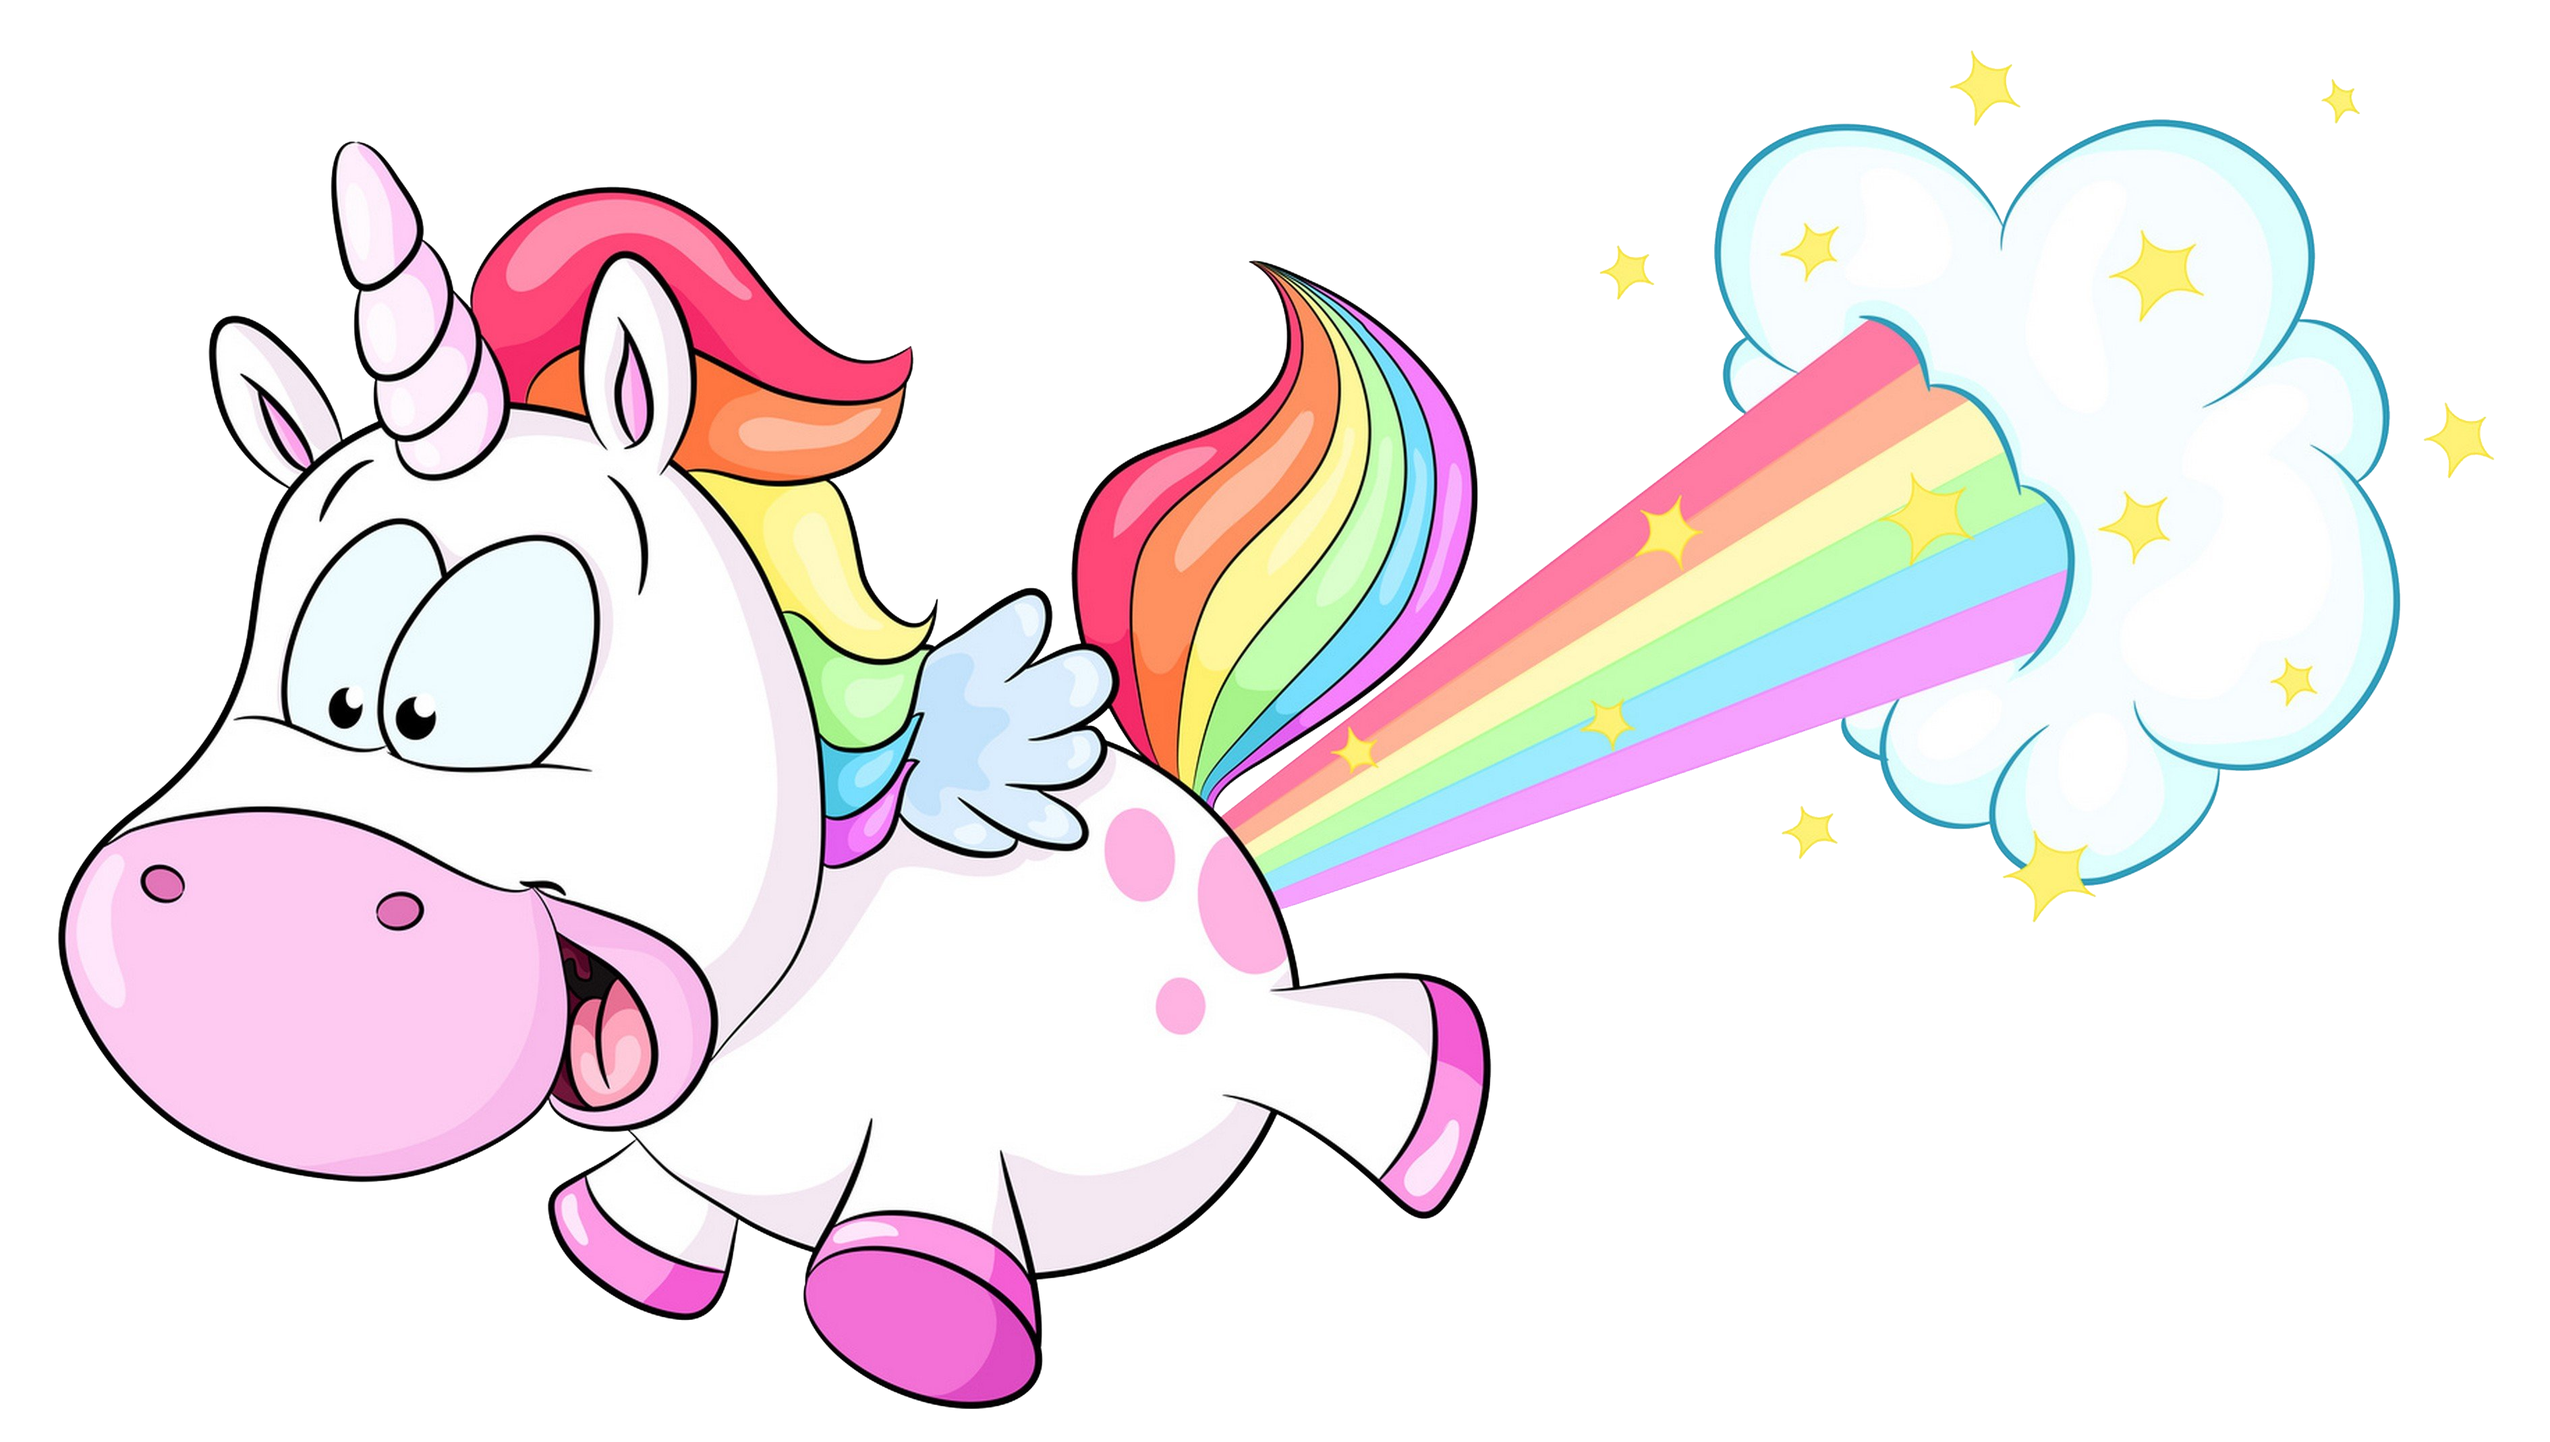
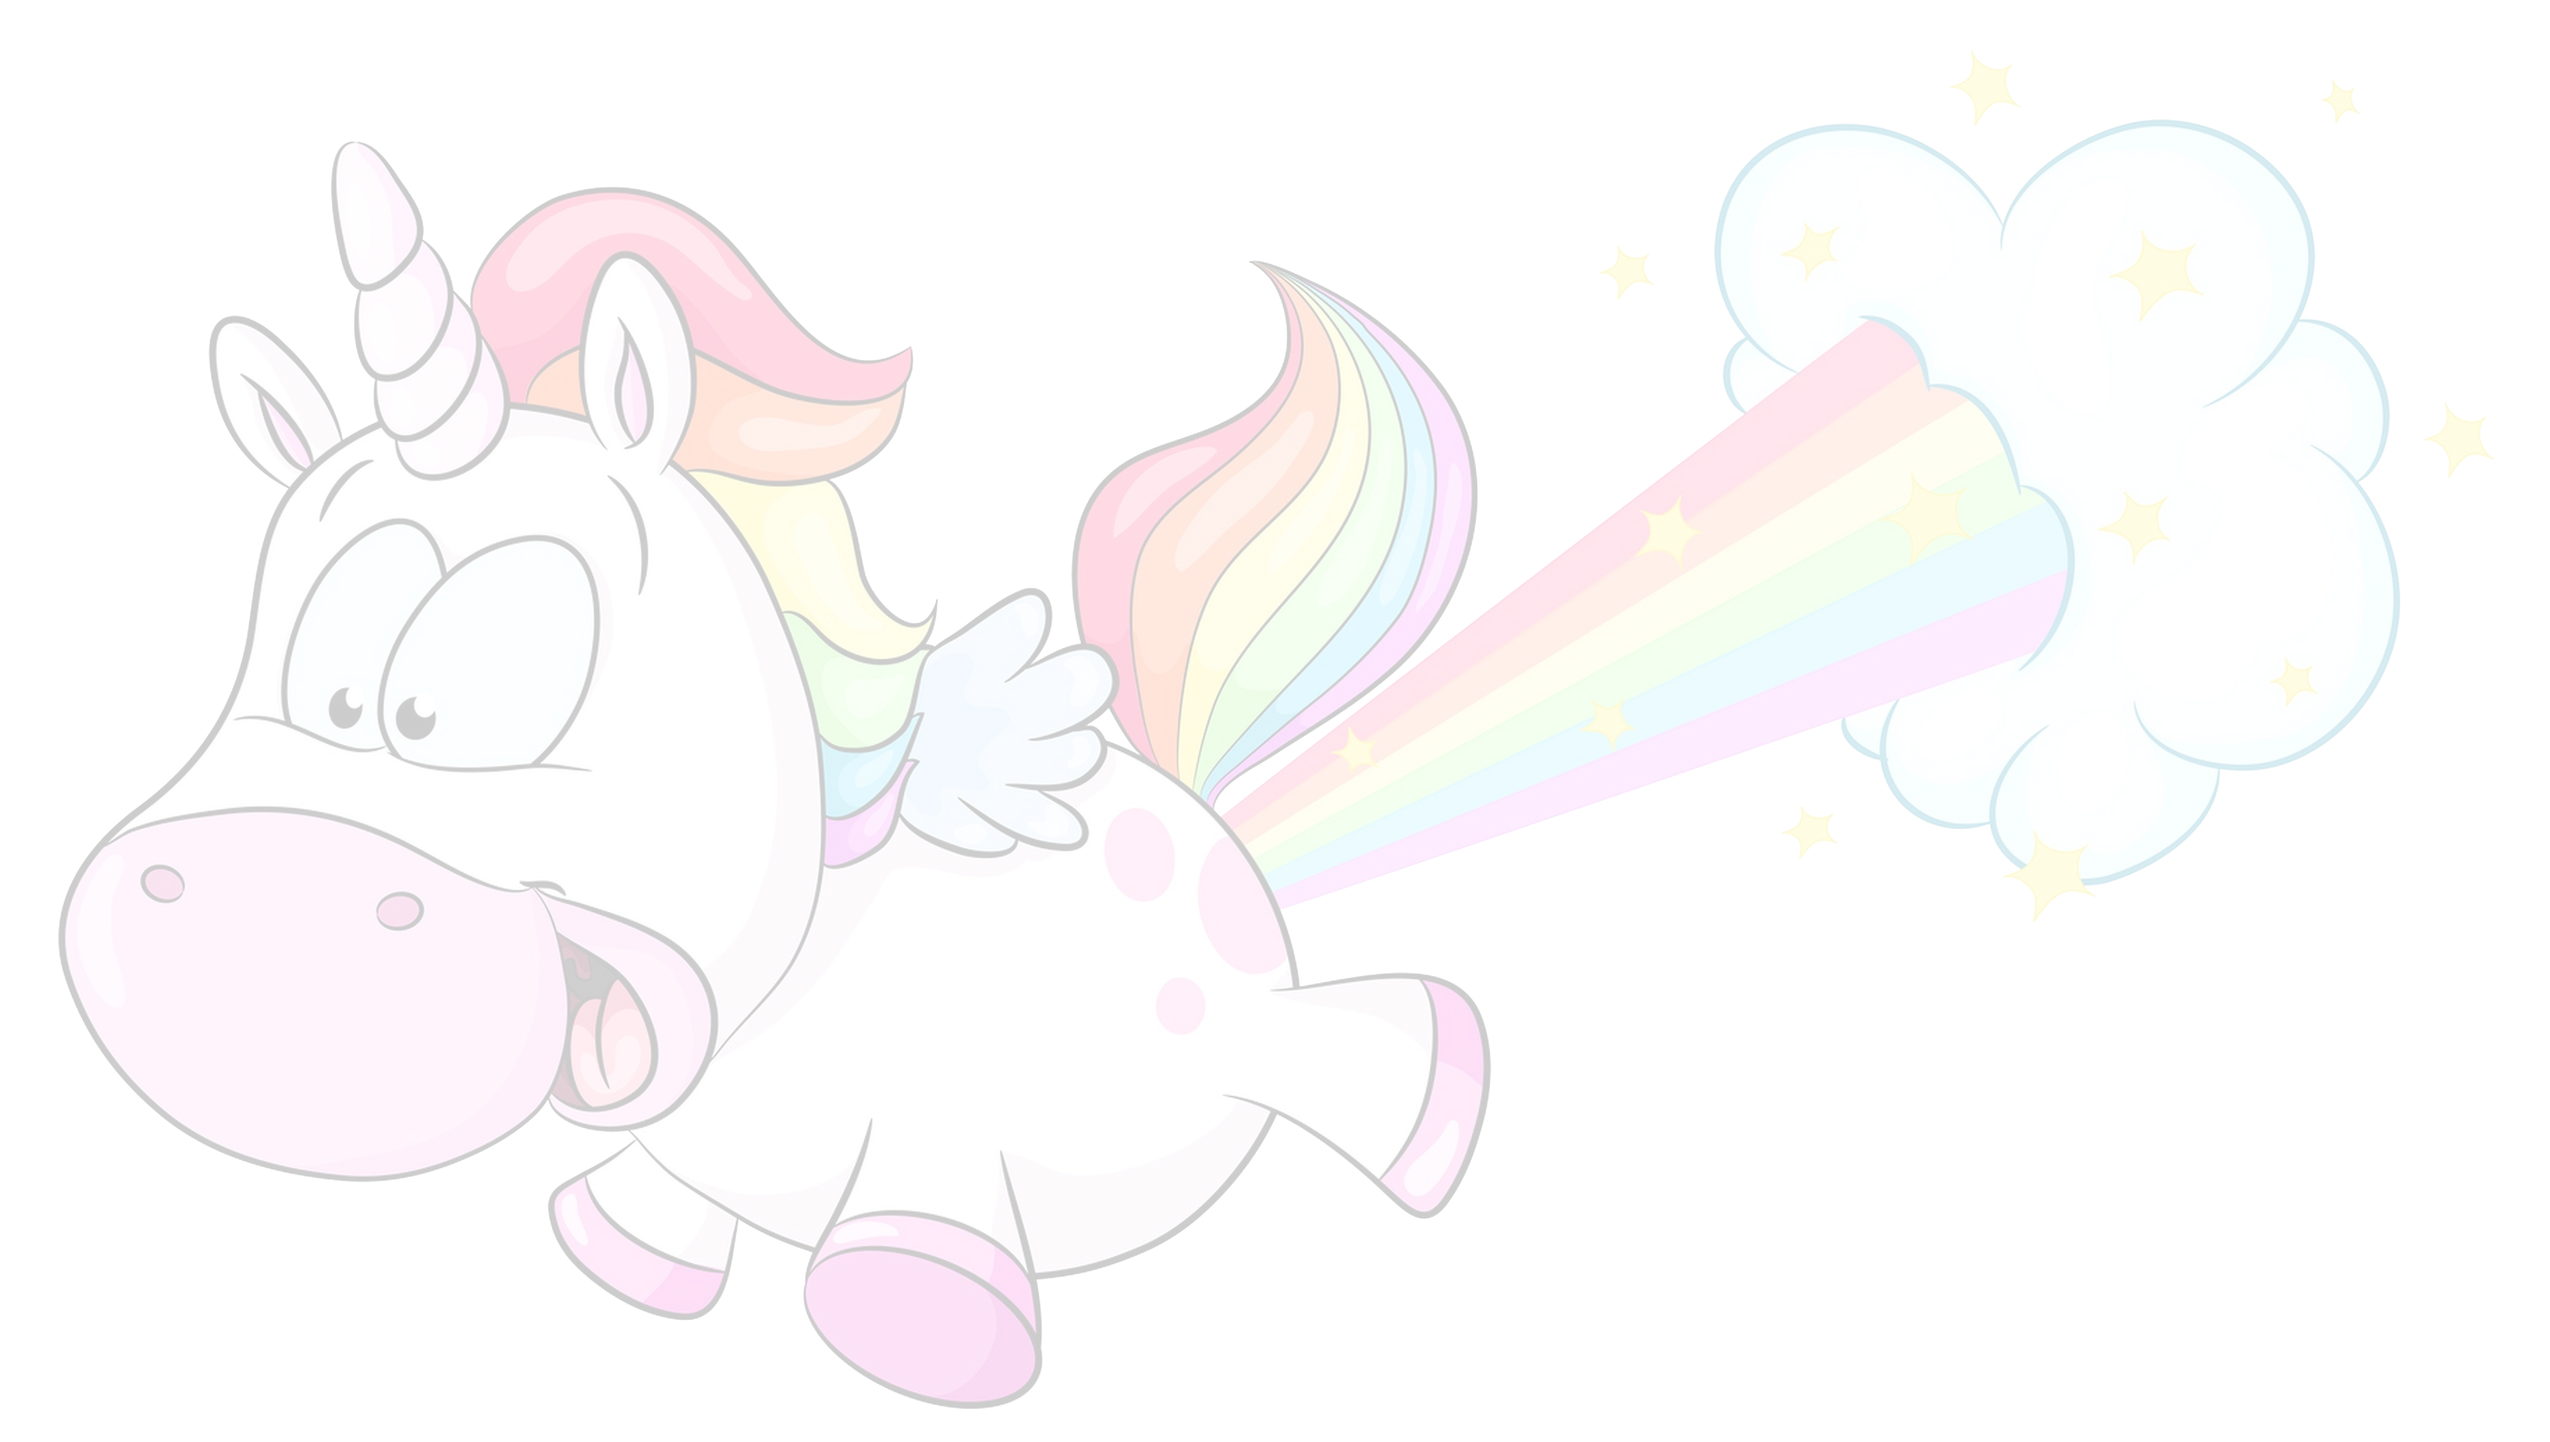
Front end

diff --git a/components/FormArticle.vue b/components/FormArticle.vue
@@ -1,18 +1,21 @@
 <template>
   <div>
+    <nuxt-link :to="{name: 'admin'}">
+      <button class="btn -theme-default"><Icon name="chevron-left" strokeWidth="2" size="medium" ></Icon></button>
+      <br> <br>
+    </nuxt-link>
     <h2>{{currentArticle ? `Modier l'article ${currentArticle.title}` : 'Nouvel article'}}</h2>
     <RbUForm @submit="addArticle">
       <RbUField label="Titre">
         <RbUInputText v-model="article.title" required />
       </RbUField>
       <RbUField label="Description">
-        <RbUInputTextArea v-model="article.text" required />
+        <RbUInputTextArea v-model="article.text" required rows="10" />
       </RbUField>
       <div slot="actions" class="u-display-flex u-jc-flex-end u-padding-top-medium">
         <RbUButtonTextIcon modifiers="-theme-secondary" utils="u-color-default u-font-weight-bold" :text="article.id ? 'Sauvegarder' : 'Créer'" iconBefore="save" />
       </div>
     </RbUForm>
-    <nuxt-link :to="{name: 'admin'}"><button>Retour</button></nuxt-link>
   </div>
 </template>
 
@@ -24,6 +27,7 @@
   import RbUForm from "~/components/Form.vue";
   import RbUInputText from "~/components/InputText.vue";
   import RbUInputTextArea from "~/components/InputTextArea.vue";
+  import Icon from "~/components/Icon";
 
   export default {
     components: {
@@ -31,7 +35,8 @@
       RbUField,
       RbUForm,
       RbUInputText,
-      RbUInputTextArea
+      RbUInputTextArea,
+      Icon
     },
     props: {
       currentArticle: Object
@@ -63,7 +68,6 @@
 
         axios[method](action, this.article)
           .then((Response) => {
-            console.log(Response);
             this.$router.back();
           })
           .catch((err) => {

diff --git a/pages/admin/index.vue b/pages/admin/index.vue
@@ -1,14 +1,21 @@
 <template>
-  <div class="container">
-    <h2>{{title}}</h2>
-    <p><nuxt-link :to="{name: 'admin-edit'}">Créer un article</nuxt-link></p>
-    <p></p>
-    <ul v-if="!loading">
-      <li v-for="article in articles" :key="article.id">
-        <span>{{article.title}}</span> <nuxt-link :to="{name: 'admin-edit-id', params: {id: article.id}}" class="btn -theme-3 -format-small"><Icon name="edit" strokeWidth="2" size="small" ></Icon></nuxt-link>
+  <div>
+    <div class="d-flex justify-content-between u-content-width-xsmall">
+      <h2>{{title}}</h2>
+      <p><nuxt-link :to="{name: 'admin-edit'}" class="btn -theme-primary">Créer un article</nuxt-link></p>
+    </div>
+
+    <div v-if="!loading">
+      <div class="d-flex justify-content-between u-margin-vt-small u-content-width-xsmall" v-for="article in articles" :key="article.id">
+        <span>{{article.title}}</span>
+        <div>
+          <nuxt-link :to="{name: 'admin-edit-id', params: {id: article.id}}" class="btn -theme-3 -format-small u-margin-hz-small">
+            <Icon name="edit" strokeWidth="2" size="small" ></Icon>
+          </nuxt-link>
         <RbUButtonIcon class="btn--ghost -theme-1 -format-small" @click="remove(article)" iconSize="small" iconName="trash-2" iconStrokeWidth="2" />
-      </li>
-    </ul>
+        </div>
+      </div>
+    </div>
     <RbUSpinner v-else utils="u-margin-bottom-medium"></RbUSpinner>
   </div>
 </template>

diff --git a/pages/blog/_id.vue b/pages/blog/_id.vue
@@ -1,18 +1,25 @@
 <template>
-  <div class="container">
+  <div>
+    <nuxt-link :to="{name: 'blog'}">
+      <button class="btn -theme-default"><Icon name="chevron-left" strokeWidth="2" size="medium" ></Icon></button>
+    </nuxt-link>
+    <br><br>
+
     <h2>Article n° {{currentArticle.id}} - {{currentArticle.title}}</h2>
-    <p>{{currentArticle.text}}</p>
-    <nuxt-link :to="{name: 'blog'}"><button>Retour</button></nuxt-link>
+    <p class="pre-formatted">{{currentArticle.text}}</p>
   </div>
 </template>
 
 <script>
   import axios from "~/plugins/axios";
+  import Icon from "~/components/Icon";
 
   export default {
+    components: {
+      Icon
+    },
     async asyncData({params}) {
       const { data } = await axios.get(`/article/${params.id}`);
-      console.log(data);
       return {
         currentArticle: data
       }

diff --git a/assets/style/components/app/app.scss b/assets/style/components/app/app.scss
@@ -15,7 +15,36 @@
   position: relative;
   background-color: var(--color-background);
   width: 100%;
-  height: 100%;
+  min-height: 100%;
+}
+
+body > div {
+  background: {
+    image:  url('../images/unicorn.png');
+    position: right;
+    repeat: no-repeat;
+    size: 40%;
+  }
+  min-height: 100%;
+  font-family: Philosopher;
+}
+
+.content {
+  padding: 50px 0;
+}
+
+h2 {
+  font-size: 2.3rem;
+  font-family: Philosopher;
+}
+
+.rbutextarea {
+  padding: 15px;
+  height: 180px;
+}
+
+.pre-formatted {
+  white-space: pre;
 }
 
 

diff --git a/components/InputTextArea.vue b/components/InputTextArea.vue
@@ -1,6 +1,6 @@
 <template>
   <RbUInputWrapper>
-    <textarea v-model="model" :placeholder="placeholder" :disabled="disabled" :rows="rows" :cols="cols" :maxlength="maxLength" ref="ta"></textarea>
+    <textarea v-model="model" :placeholder="placeholder" :disabled="disabled" class="input rbutextarea" :rows="rows" :cols="cols" :maxlength="maxLength" ref="ta"></textarea>
   </RbUInputWrapper>
 </template>
 

diff --git a/assets/style/common/vars.scss b/assets/style/common/vars.scss
@@ -324,6 +324,7 @@ $style-vars: addStyleVars($space-vt-extra);
 // Content widths
 // ==================================================================
 $content-widths: initVar('content-widths', (
+  xsmall : 70rem,
   small  : 90rem,
   default: 110rem
 ));

diff --git a/pages/admin/edit/_id.vue b/pages/admin/edit/_id.vue
@@ -10,7 +10,6 @@
     async asyncData({params}) {
       if (params.id) {
         const { data } = await axios.get(`/article/${params.id}`);
-        console.log(data);
         return {
           article: data
         }

diff --git a/pages/blog/index.vue b/pages/blog/index.vue
@@ -15,7 +15,6 @@
   export default {
     async asyncData() {
       const { data } = await axios.get('/article');
-      console.log(data);
       return {
         articles: data
       }

diff --git a/assets/style/components/view/view.scss b/assets/style/components/view/view.scss
@@ -125,6 +125,7 @@
 
 
 
+
 // ==================================================================
 // BREAKPOINTS
 // ==================================================================

diff --git a/layouts/default.vue b/layouts/default.vue
@@ -1,7 +1,10 @@
 <template>
   <div>
     <NavBar></NavBar>
-    <nuxt />
+    <div class="container content">
+      <nuxt />
+    </div>
+
   </div>
 </template>
 
